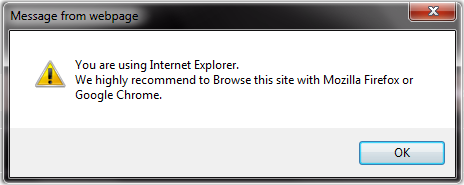
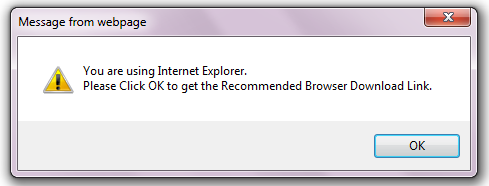
git-svn-id: https://plugins.svn.wordpress.org/internet-explorer-alert/trunk@480491 b8457f37-d9ea-0310-8a92-e5e31aec5664

diff --git a/iealert.php b/iealert.php
@@ -3,19 +3,24 @@
 Plugin Name: Internet Explorer Alert!
 Plugin URI: http://shariarbd.com/
 Description: Internet Explorer Alert is created to Alert visitor to use Mozilla Firefox or Google Chrome. That is if anyone browse your site with Internet Explorer, he/she will alert by your site to use Mozilla Firefox or Google Chrome. Plugin is created by <cite><a href="http://shariarbd.com" title="Md. Sahriar">Md. Shariar</a>.</cite>
-Version: 1.0
+Version: 1.5
 Author: Md. Shariar
 Author URI: http://shariarbd.com/
 */
 
+$newwindownote= <<<FFOOT
+window.open('http://shariarbd.com/download-web-browser/','','scrollbars=Yes,menubar=no,height=600,width=800,resizable=yes,toolbar=no,location=no,status=no');
+FFOOT;
 function ie_alert() 
 {
-
+global $newwindownote;
 if (strpos($_SERVER['HTTP_USER_AGENT'], 'MSIE') !== FALSE) {
 echo "
 <script type=\"text/javascript\">
-alert(\"You are using Internet Explorer. \\nWe highly recommend to Browse this site with Mozilla Firefox or Google Chrome.\");
-</script>";
+alert(\"You are using Internet Explorer.\\nPlease Click OK to get the Recommended Browser Download Link.\");
+\n $newwindownote 
+</script>
+";
 }
 
 }
